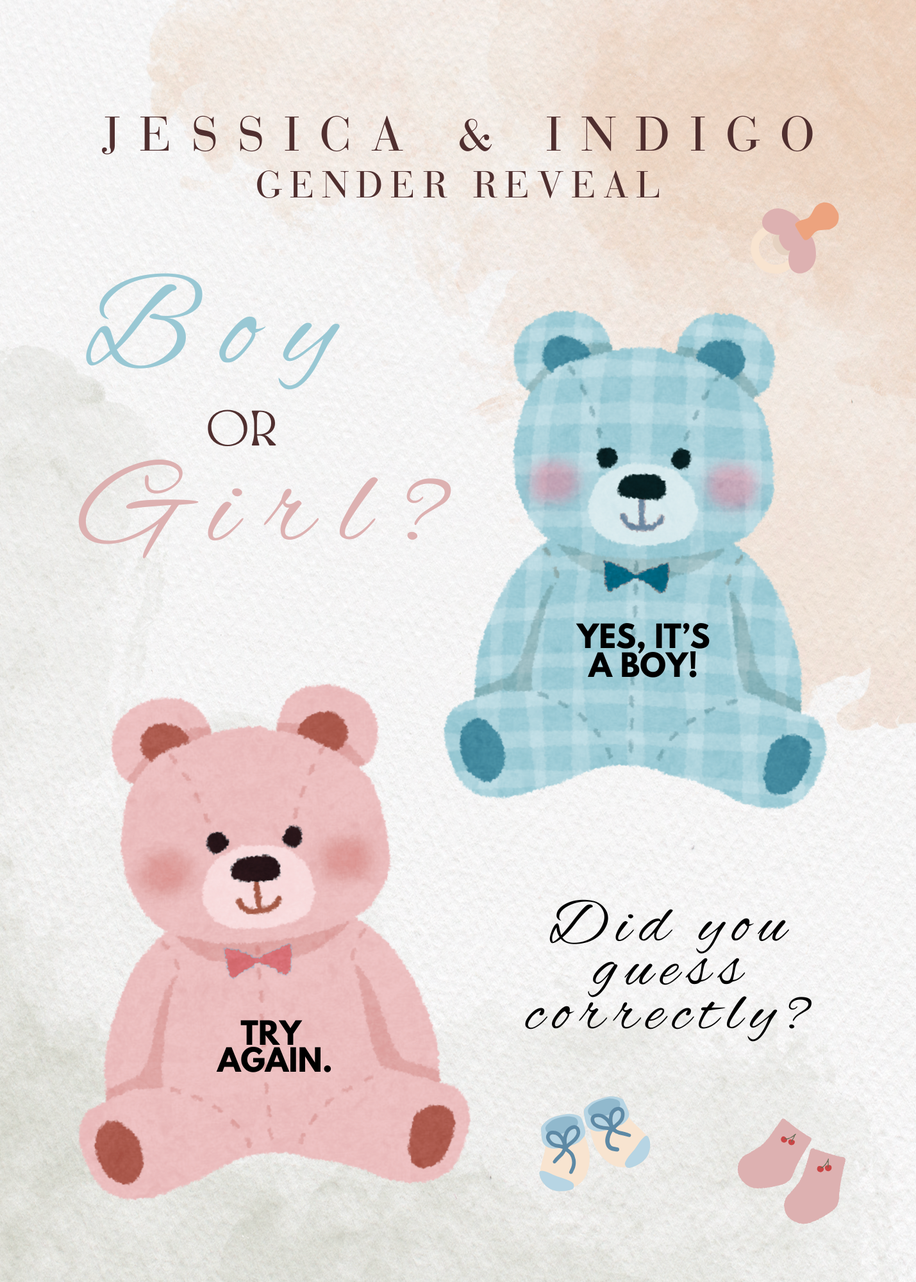
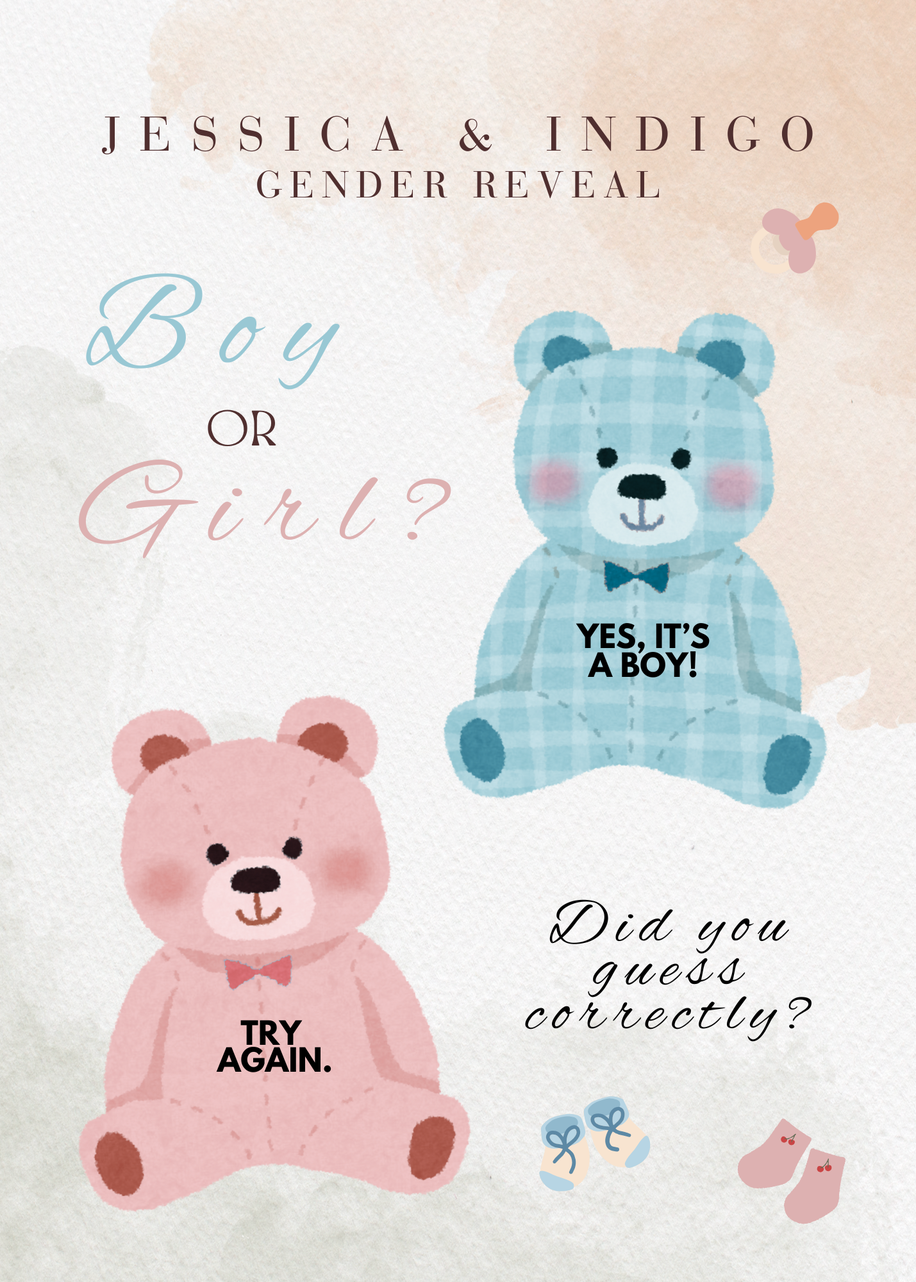
testing viewport
fixed back image alignment

diff --git a/index.html b/index.html
@@ -22,13 +22,13 @@
       display: flex;
       justify-content: center;
       align-items: center;
-      height: 100vh;
+      height: 90vh;
       background-color: #f0f0f0;
     }
 
     .sc__wrapper {
       width: auto;
-      height: 100vh;
+      height: 90vh;
       max-width: calc(100vh * (1080 / 1920));
       aspect-ratio: 1080 / 1920;
       border: 5px solid white;
@@ -38,7 +38,7 @@
     .sc__container {
       position: absolute;
       width: 100%;
-      height: 100%;
+      height: 90%;
       overflow: hidden;
 	
     }
@@ -46,7 +46,7 @@
     .sc__container img {
       position: absolute;
       width: 100%;
-      height: 100%;
+      height: 90%;
       display: none; /* Initially hide the background image */
 		 
     }
@@ -56,7 +56,7 @@
       top: 0;
       left: 0;
       width: 100%;
-      height: 100%;
+      height: 90%;
     }
   </style>
 </head>
